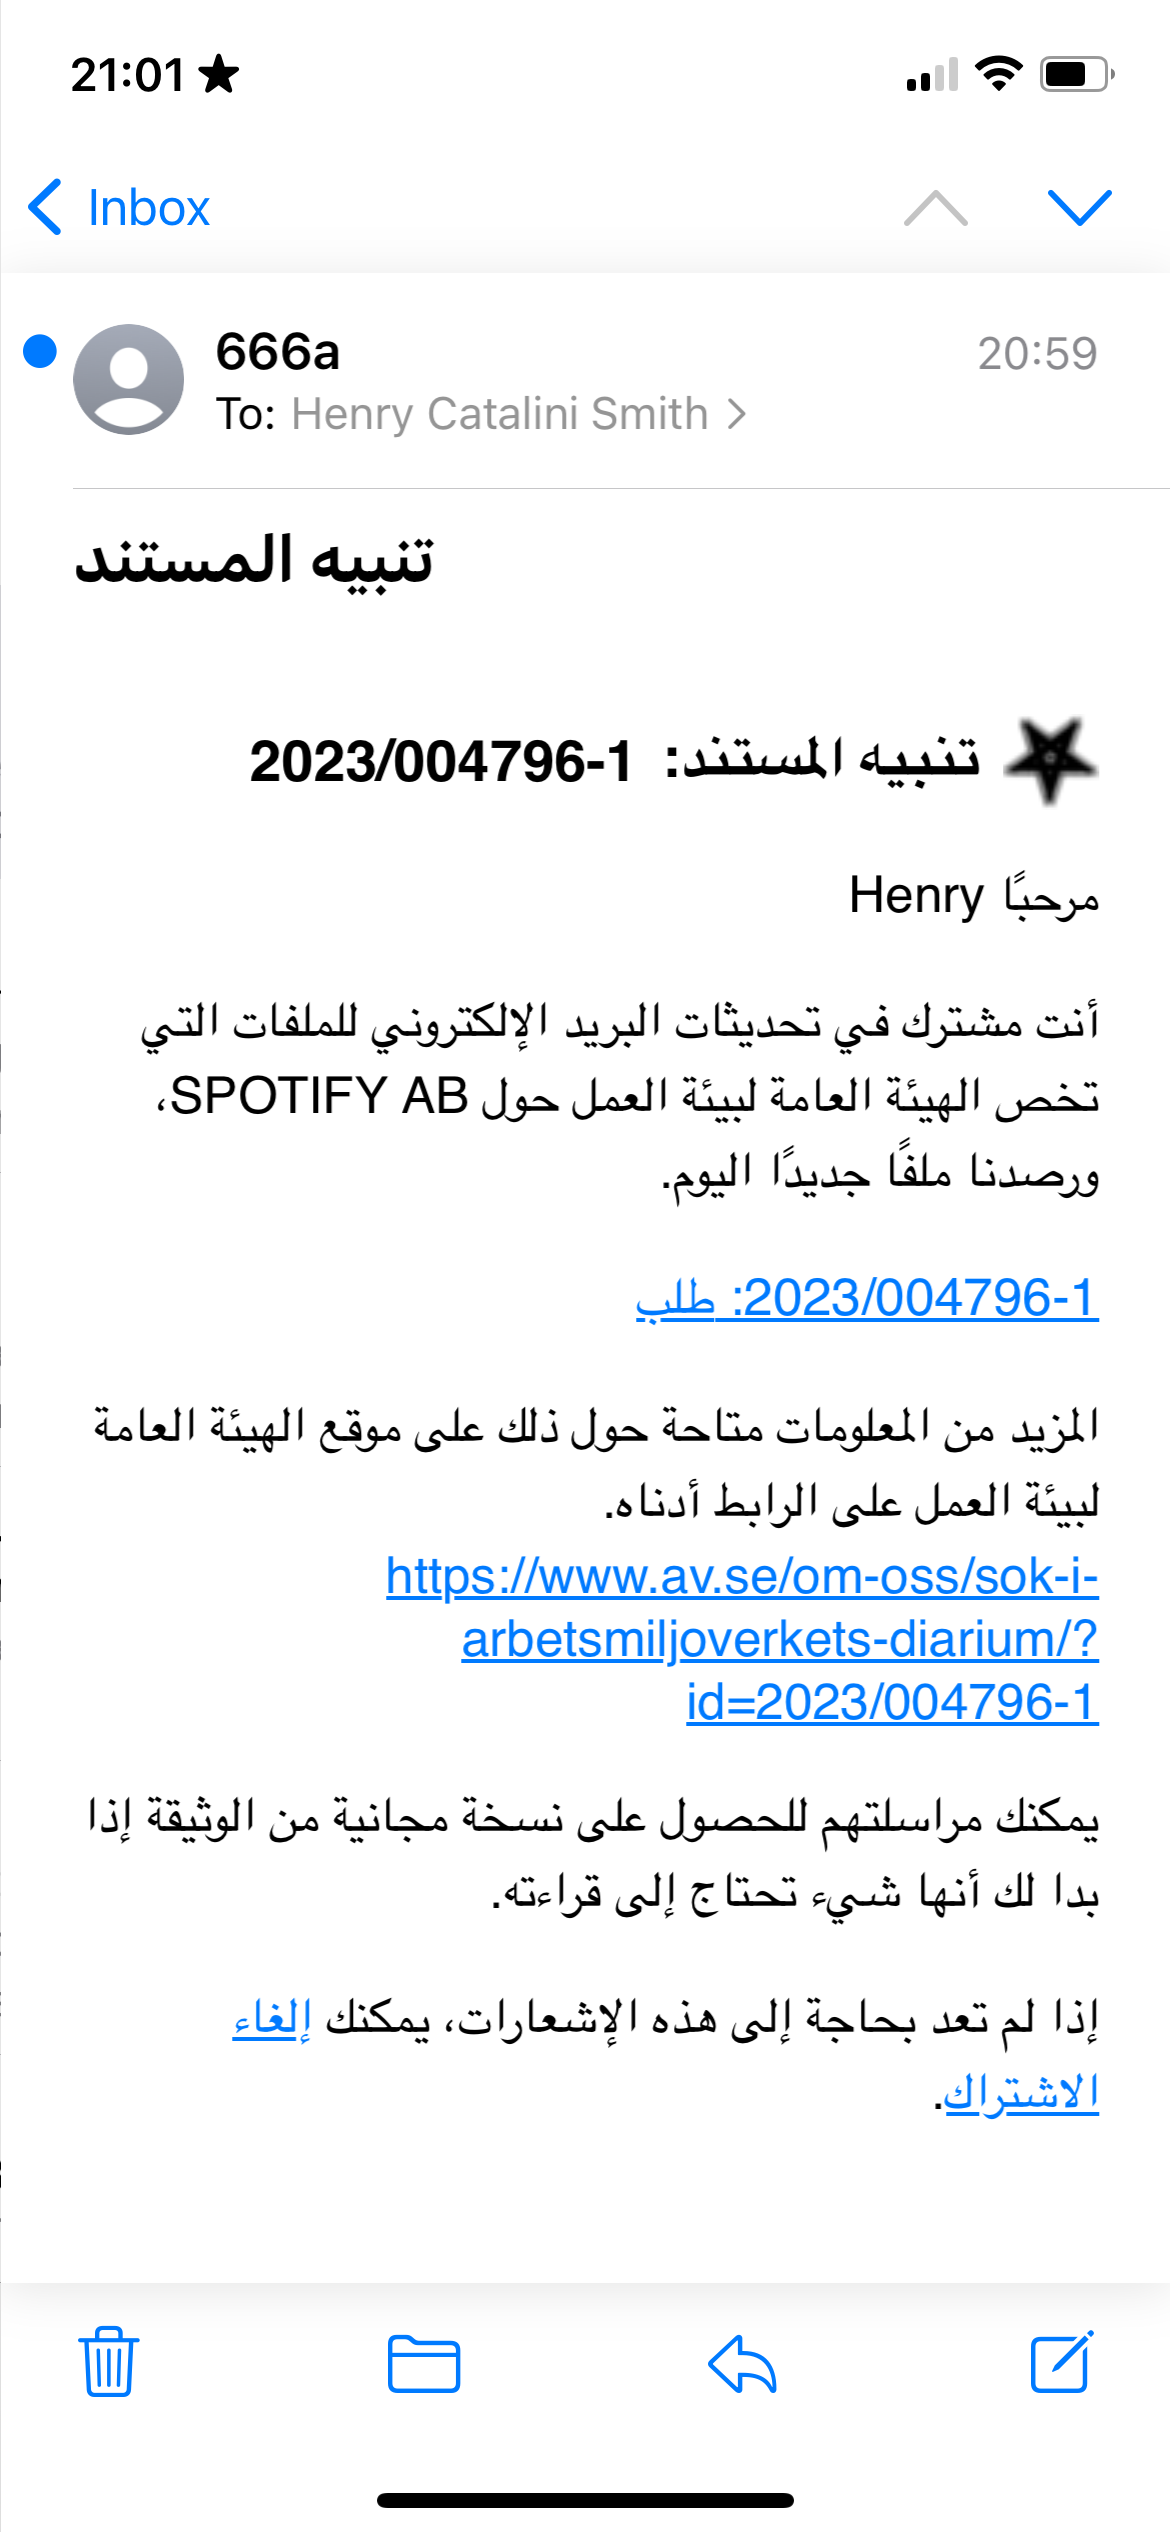
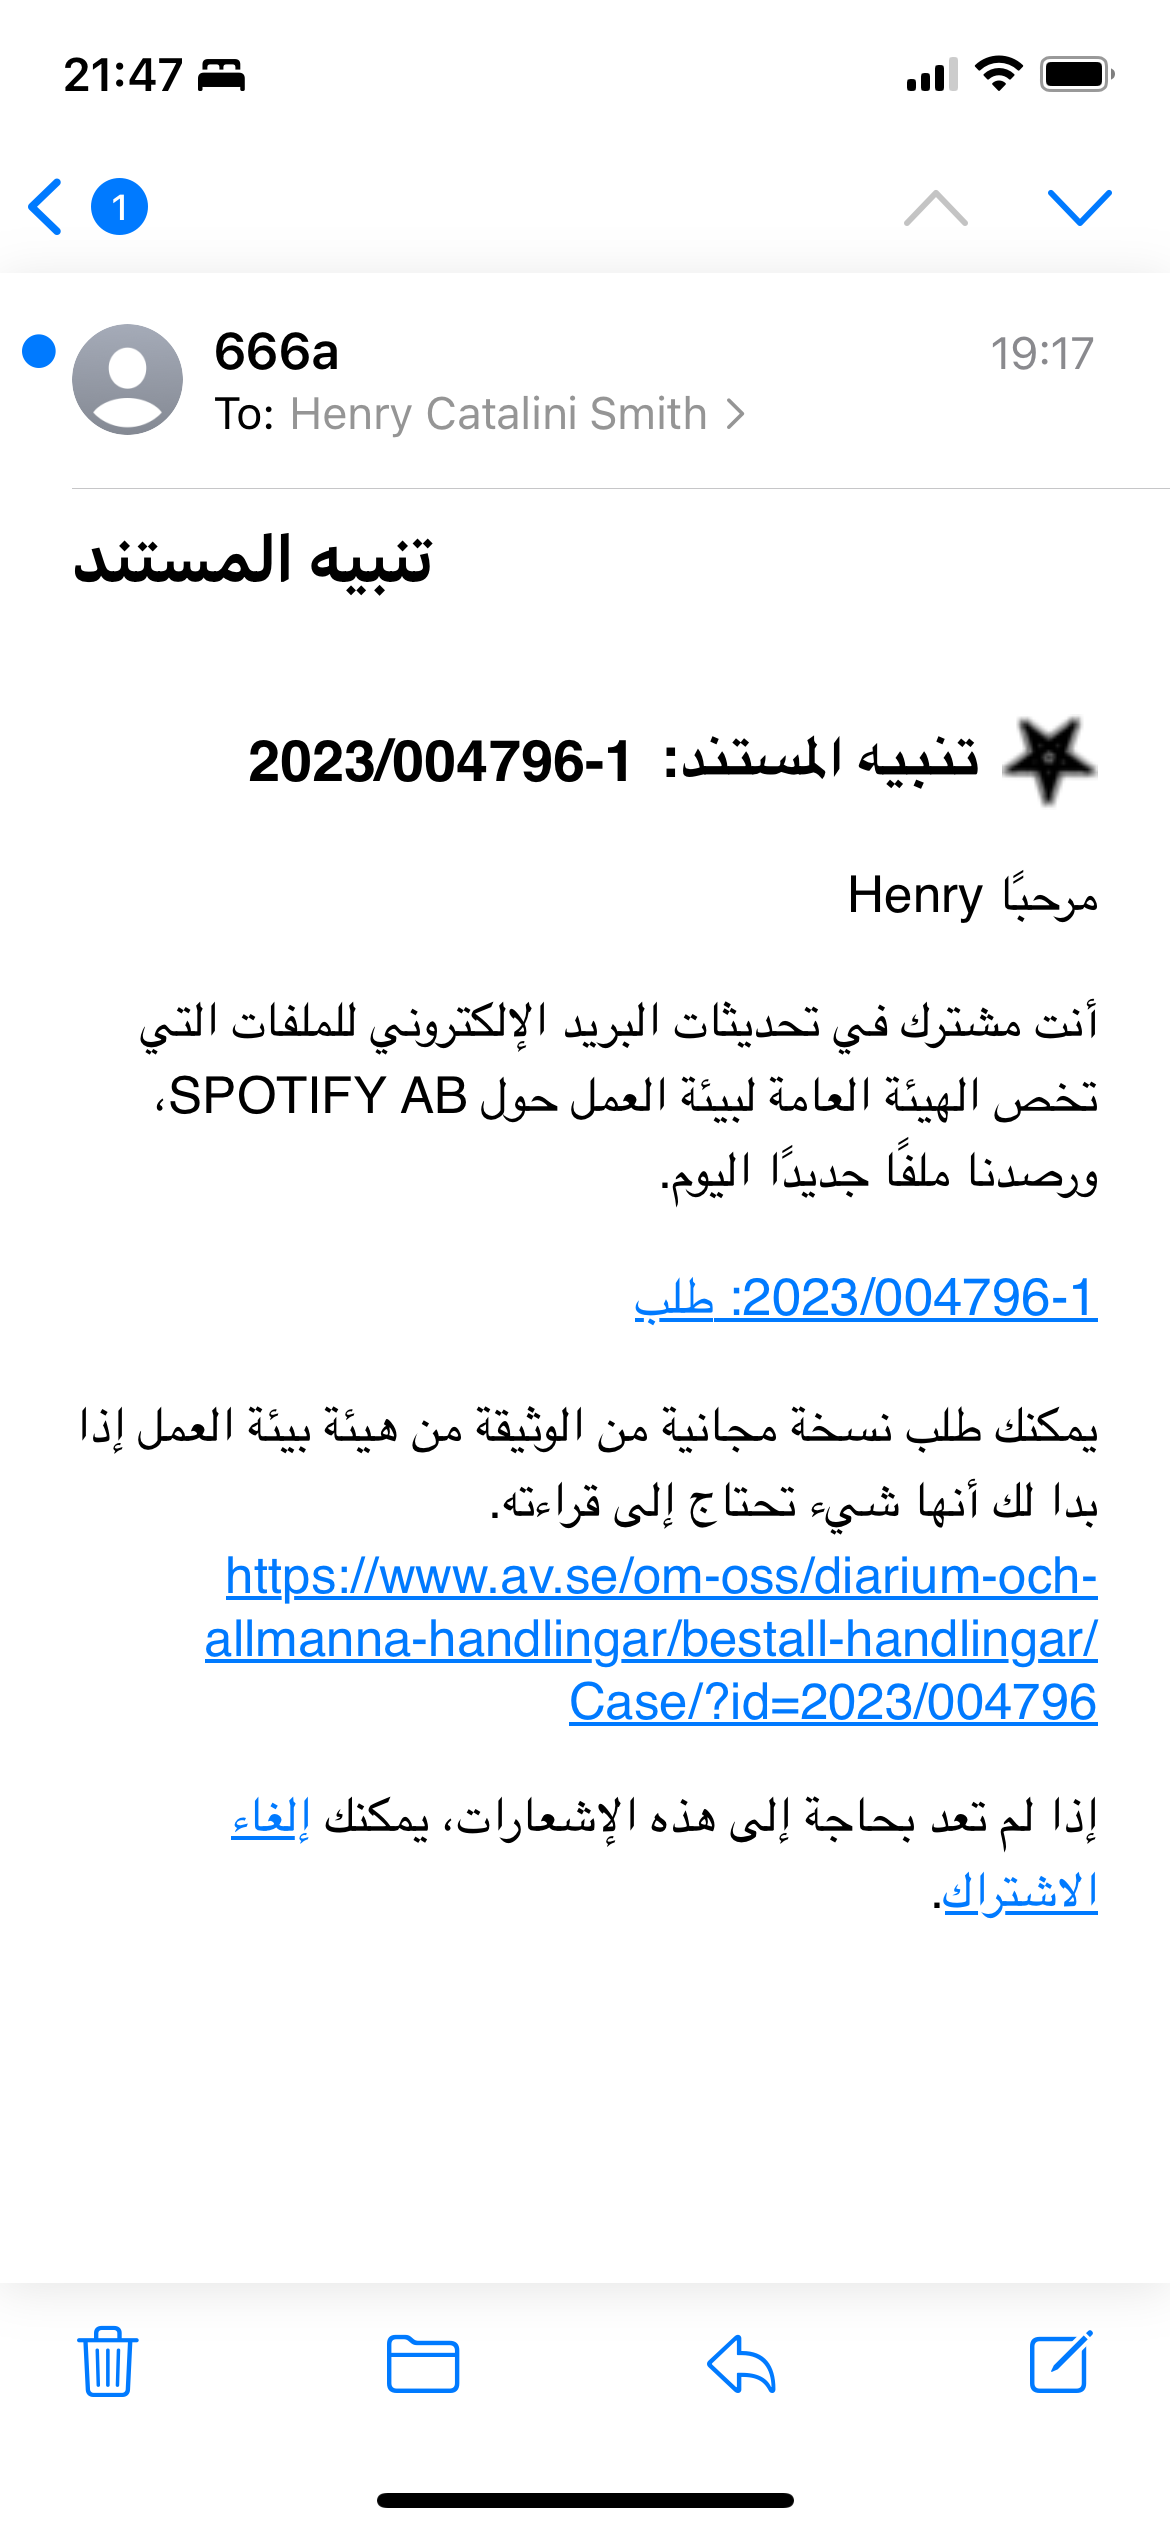
Update email templates (fixes #50)

diff --git a/app/mailers/notification_mailer.rb b/app/mailers/notification_mailer.rb
@@ -4,7 +4,7 @@ class NotificationMailer < ApplicationMailer
     @document = @notification.document
     @target = @notification.subscription.company_subscription? ? @document.company_name : @document.workplace_name
     @user = @notification.subscription.account
-    @url = "https://www.av.se/om-oss/sok-i-arbetsmiljoverkets-diarium/?id=" + @document.document_code
+    @url = "https://www.av.se/om-oss/diarium-och-allmanna-handlingar/bestall-handlingar/Case/?id=" + @document.case_code
     @unsubscribe_url = "https://666a.se/unsubscribe/#{@notification.subscription.id}"
     I18n.with_locale(@user.locale) do
       mail(
